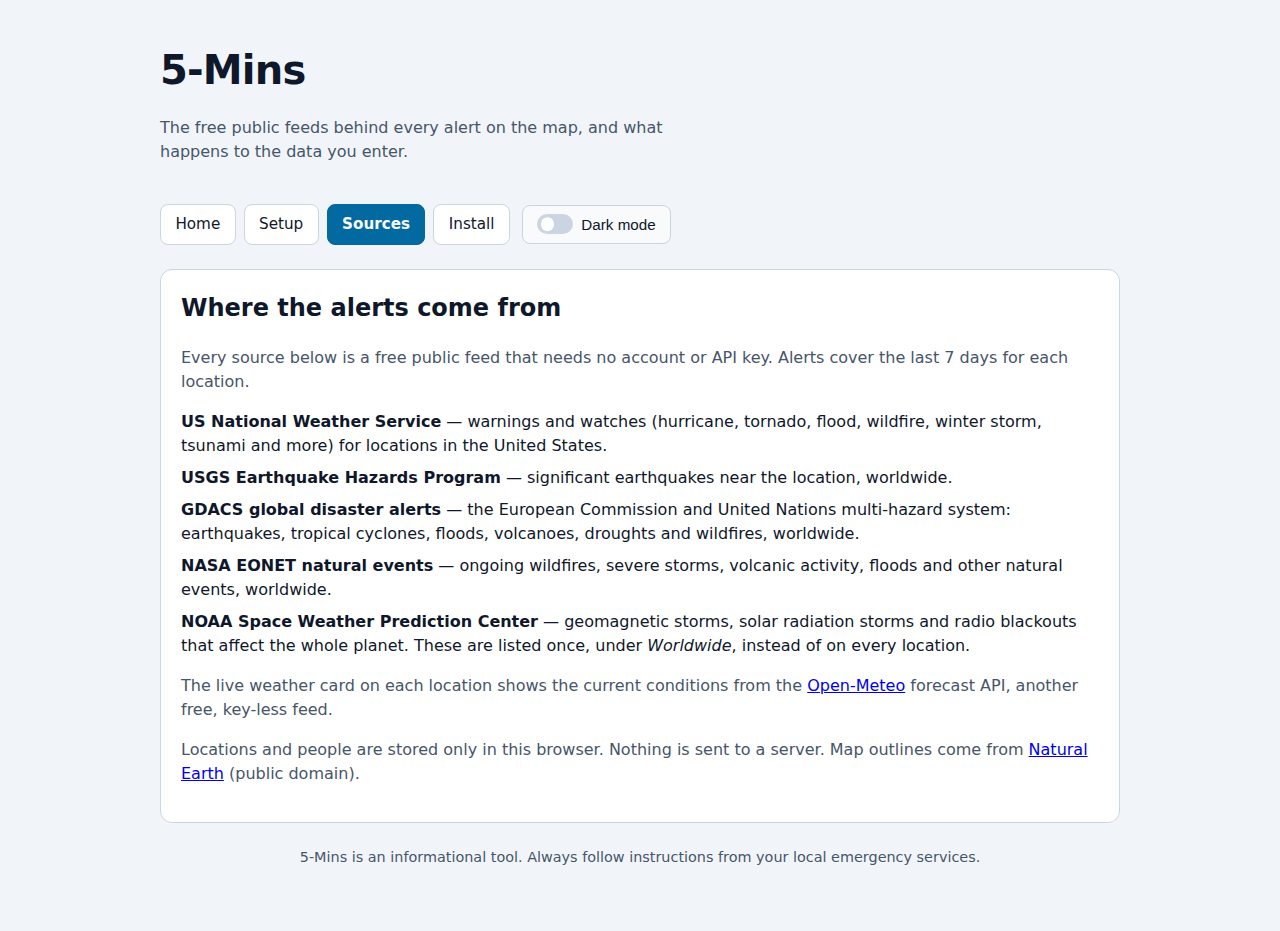
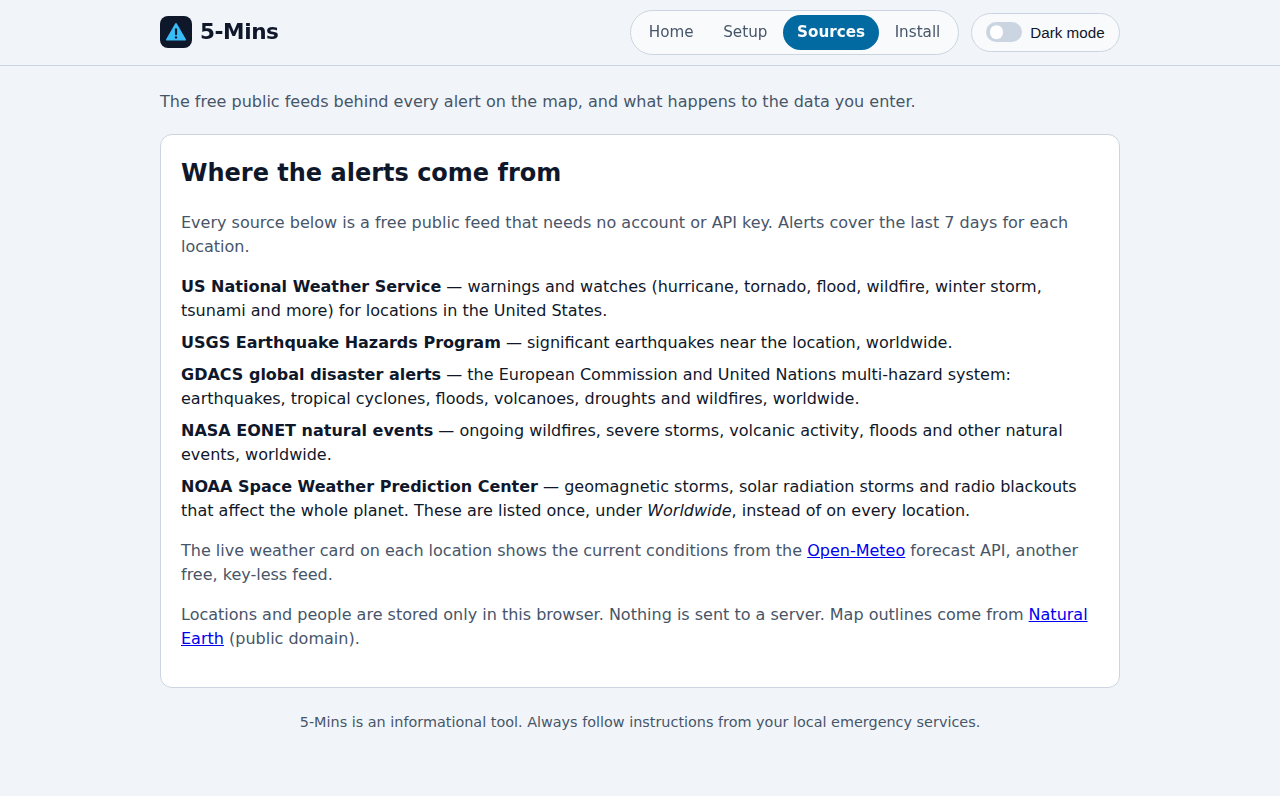
Document the worldwide toggle and refresh screenshots

diff --git a/assets/styles.css b/assets/styles.css
@@ -255,7 +255,6 @@ main,
 
 .tagline {
   margin: 1.5rem auto 1.25rem;
-  max-width: 40rem;
 }
 
 .tagline,

diff --git a/README.md b/README.md
@@ -40,7 +40,9 @@ Provide users an alert before a catastrophe or disaster. The crucial minutes to 
   Minor).
 - Alerts that reach the whole planet, such as the NOAA space weather alerts, are
   listed once under a **Worldwide** card instead of on every location, and that
-  card carries no local weather.
+  card carries no local weather. A **Show worldwide alerts** switch hides that
+  card when you only care about your own locations; the choice is kept in the
+  URL as `?worldwide=0`.
 - Refresh all alerts on demand.
 - While an alert is active, each person can mark themselves safe. A new alert
   clears those check-ins so everyone confirms again.
@@ -58,6 +60,8 @@ Provide users an alert before a catastrophe or disaster. The crucial minutes to 
 
 ### Everywhere
 
+- A sticky navigation bar keeps the four pages one tap away while the alert list
+  scrolls; the links sit in a pill bar that scrolls sideways on small screens.
 - Dark and light themes: the site follows the system colour scheme, and the
   header toggle pins a theme that is remembered on the next visit.
 - Locations and people are stored in the browser's `localStorage`, so they
@@ -84,6 +88,11 @@ cities and the filters are kept in the URL.*
 
 *Home — alerts that reach the whole planet are listed once under Worldwide, with
 no local weather card.*
+
+![Home page with the Show worldwide alerts switch off and no Worldwide card](docs/images/home-worldwide-hidden.png)
+
+*Home — the Show worldwide alerts switch hides the Worldwide card and says so in
+the map summary.*
 
 ![Home page filtered to Extreme alerts, showing only the extreme alerts of each location](docs/images/home-filtered-by-severity.png)
 
